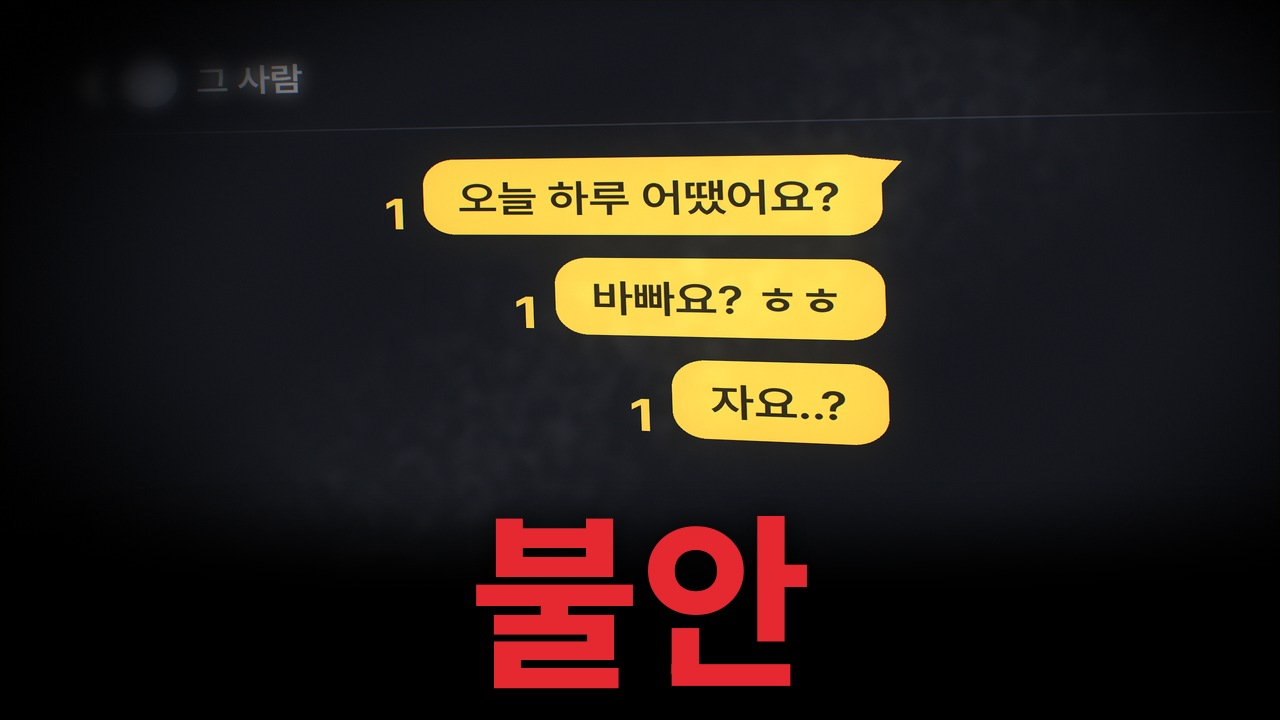
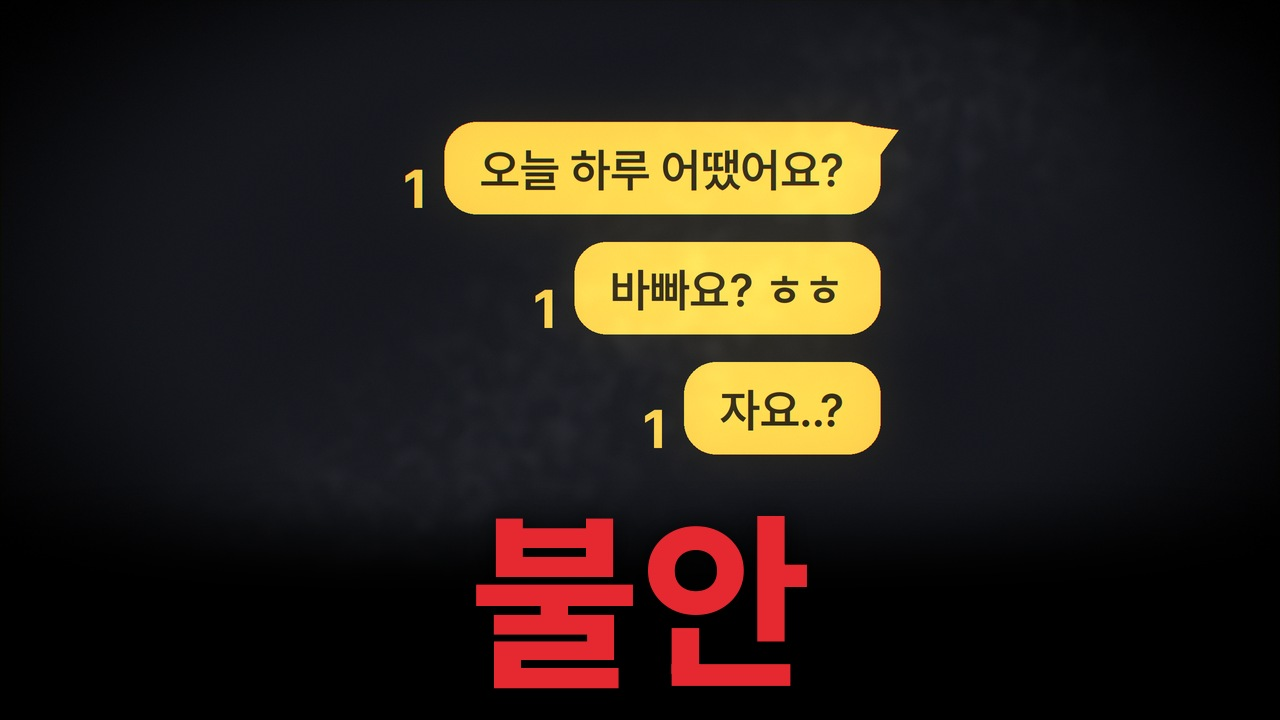
F의연애: 썸네일 채팅을 기울이지 않고 똑바로 세움
- thumb_chat.py: 원근 기울기 제거, 채팅 묶음을 위·가운데로 옮겨 제목과 간격 확보, 잘리던 상대 이름 줄 제거
- 01편 썸네일(빨간 글씨, 비교용 흰 글씨) 다시 만듦
- CLAUDE.md 작업 규칙 7번에 '글씨가 든 그림은 기울이지 않기' 추가, README·진행기록 갱신

Claude-Session: https://claude.ai/code/session_01W2LvTK1LxBBrCR9gG9ohCC

diff --git a/F의연애/썸네일/thumb_chat.py b/F의연애/썸네일/thumb_chat.py
@@ -1,9 +1,10 @@
 # 「F의 연애」 썸네일: 채팅 확대판 (2026-10-22 사용자 지시)
 # 휴대폰 몸체 없이 대화 내용만 크게 확대해, 썸네일을 작게 봐도 노란 말풍선과 읽지 않은 '1'이 눈에 들어오게 한다.
-# 실제 화면을 가까이서 찍은 사진처럼 보이게: 살짝 기운 원근, 가장자리 초점 흐림, 말풍선 빛 번짐, 은은한 화면 반사.
+# 실제 화면을 가까이서 찍은 사진처럼 보이게: 가장자리 초점 흐림, 말풍선 빛 번짐, 은은한 화면 반사.
+# 화면은 기울이지 않고 똑바로 세운다(2026-10-22 사용자 지시: 삐뚤어 보인다).
 # 배경은 검은색으로 사라지고, 아래에 주제 단어(thumb.py와 같은 글꼴·위치).
 #
-# usage: thumb_chat.py OUT.jpg --word 불안 --color red [--msgs "a|b|c"] [--name "그 사람"]
+# usage: thumb_chat.py OUT.jpg --word 불안 --color red [--msgs "a|b|c"]
 import os, sys
 import numpy as np
 from PIL import Image, ImageDraw, ImageFilter
@@ -15,19 +16,21 @@ S = 2                       # draw at 2x, then downsample
 SCREEN = (22, 24, 30)       # dark-mode chat background
 
 
-def chat_panel(msgs, name):
-    """Flat dark-mode chat panel at 2x. Bubbles are big: about 88 px tall in the final 1280x720 thumbnail."""
+def chat_panel(msgs, name, header=False):
+    """Flat dark-mode chat panel at 2x. Bubbles are big: about 90 px tall in the final 1280x720 thumbnail.
+    header=False (default): no contact-name bar, so no text gets cut at the top edge (channel rule 5)."""
     pw, ph = 1180 * S, 700 * S
     img = Image.new("RGB", (pw, ph), SCREEN)
     d = ImageDraw.Draw(img)
-    hy = 62 * S                                                     # header (ends up soft and partly cropped)
-    d.line([(70 * S, hy - 22 * S), (52 * S, hy), (70 * S, hy + 22 * S)], fill=(225, 225, 230), width=6 * S, joint="curve")
-    d.ellipse([96 * S, hy - 32 * S, 160 * S, hy + 32 * S], fill=(92, 98, 112))
-    d.text((182 * S, hy), name, font=font("SemiBold", 42 * S), fill=(235, 235, 240), anchor="lm")
-    d.line([(0, 128 * S), (pw, 128 * S)], fill=(44, 47, 56), width=2 * S)
+    if header:
+        hy = 62 * S
+        d.line([(70 * S, hy - 22 * S), (52 * S, hy), (70 * S, hy + 22 * S)], fill=(225, 225, 230), width=6 * S, joint="curve")
+        d.ellipse([96 * S, hy - 32 * S, 160 * S, hy + 32 * S], fill=(92, 98, 112))
+        d.text((182 * S, hy), name, font=font("SemiBold", 42 * S), fill=(235, 235, 240), anchor="lm")
+        d.line([(0, 128 * S), (pw, 128 * S)], fill=(44, 47, 56), width=2 * S)
     fb, f1 = font("SemiBold", 46 * S), font("Bold", 54 * S)
     y = 168 * S
-    right = pw - 320 * S
+    right = pw - 350 * S
     for i, m in enumerate(msgs):
         tw = fb.getlength(m)
         bw, bh = tw + 72 * S, 92 * S
@@ -50,17 +53,15 @@ def perspective_coeffs(dst, src):
 
 
 def photo_look(panel):
-    """Place the panel with a mild 3D tilt (left side farther away), then add depth of field, glow and glare."""
+    """Place the panel straight (no tilt), then add a shallow depth of field, glow and glare."""
     CW, CH = W * S, H * S
     pw, ph = panel.size
-    # target quad (2x canvas): right edge nearer/taller than the left edge, slight downward tilt
-    dst = [(40 * S, 40 * S), (1270 * S, -10 * S), (1290 * S, 650 * S), (60 * S, 560 * S)]
-    src = [(0, 0), (pw, 0), (pw, ph), (0, ph)]
-    img = panel.transform((CW, CH), Image.PERSPECTIVE, perspective_coeffs(dst, src), Image.BICUBIC, fillcolor=SCREEN)
+    img = Image.new("RGB", (CW, CH), SCREEN)
+    img.paste(panel, ((CW - pw) // 2, -46 * S))           # header partly above the frame
     a = np.asarray(img, np.float32)
-    # depth of field: sharp around the bubbles, softer toward the far (left) side and the top header
+    # depth of field: sharp around the bubbles, softer toward the edges and the top header
     yy, xx = np.mgrid[0:CH, 0:CW].astype(np.float32)
-    cx, cy = 760 * S, 300 * S
+    cx, cy = 640 * S, 270 * S
     dist = np.sqrt(((xx - cx) / (560 * S)) ** 2 + ((yy - cy) / (300 * S)) ** 2)
     wgt = np.clip((dist - 0.75) / 0.6, 0, 1)
     soft = np.asarray(img.filter(ImageFilter.GaussianBlur(9 * S)), np.float32)
@@ -76,7 +77,7 @@ def photo_look(panel):
     sm = np.asarray(sm.filter(ImageFilter.GaussianBlur(6 * S)), np.float32) / 255
     a += (band * (6 + 16 * np.clip((sm - 0.45) * 3, 0, 1)))[..., None]
     # light falls off toward the frame edges (dark room): fade to pure black
-    r = np.sqrt(((xx - 0.55 * CW) / (0.62 * CW)) ** 2 + ((yy - 0.40 * CH) / (0.62 * CH)) ** 2)
+    r = np.sqrt(((xx - 0.50 * CW) / (0.62 * CW)) ** 2 + ((yy - 0.40 * CH) / (0.62 * CH)) ** 2)
     v = np.clip(1 - (r - 0.55) / 0.5, 0, 1)
     a *= (v * v * (3 - 2 * v))[..., None]
     a += np.random.default_rng(3).normal(0, 1.6, a.shape)          # faint sensor noise

diff --git a/F의연애/CLAUDE.md b/F의연애/CLAUDE.md
@@ -142,7 +142,7 @@
 4. 연구자·연도·실험 내용은 원문(초록 등)으로 확인한 것만 쓰고, 확인하지 못한 것은 '확인 필요'로 표시한다(3장 연구 인용 원칙과 같음).
 5. (2026-10-22 사용자 지시) 화면에 띄우는 글씨는 무조건 잘 보여야 한다. 작은 장식 글씨, 화면 끝에서 잘린 글씨, 가려진 글씨를 두지 않는다.
 6. (2026-10-22 사용자 지시) 화면 문구는 한눈에 이해되는 사람 말투로 쓴다. 설명조나 AI 말투(예: '애착 체계 = 위협을 느끼면 켜지는 경보', '경과', '무소식', '공개 예정')는 쉬운 말로 바꾼다(예: "심리학에선 '애착'이라고 불러요", '기다린 지 30분', '답장 없음', '끝에서 공개').
-7. (2026-10-22 사용자 지시) 화면 흔들림 효과, 선 일렁임, 필름 입자, 깜빡임 같은 인위적 효과를 넣지 않는다. 글씨는 닳은 효과 없이 또렷하게 쓰고, 한 화면에는 핵심 하나만 둔다. VOX 샘플 v2 피드백에서 나온 규칙이다. 스톡 영상 자체의 촬영 움직임과 사진·AI 이미지의 느린 확대는 괜찮은 것으로 본다(추론: 이 둘이 들어간 스톡 혼합 예시를 보고 방식을 확정했다).
+7. (2026-10-22 사용자 지시) 화면 흔들림 효과, 선 일렁임, 필름 입자, 깜빡임 같은 인위적 효과를 넣지 않는다. 글씨는 닳은 효과 없이 또렷하게 쓰고, 한 화면에는 핵심 하나만 둔다. 글씨가 든 그림(채팅 화면 등)은 기울이지 않고 똑바로 둔다(썸네일 포함). VOX 샘플 v2 피드백에서 나온 규칙이다. 스톡 영상 자체의 촬영 움직임과 사진·AI 이미지의 느린 확대는 괜찮은 것으로 본다(추론: 이 둘이 들어간 스톡 혼합 예시를 보고 방식을 확정했다).
 8. (2026-10-22 사용자 지시) 앞으로 영상은 스톡 혼합 방식으로 만든다. 사용자가 대본과 녹음 파일을 주면, 그 녹음에 맞춰 영상과 효과음을 넣어 완성한다.
 9. (2026-10-22 사용자 지시) 중요한 대사는 핵심 단어를 노란색(#F2C94C)으로 강조하되 남발하지 않는다. 기준(Claude 제안): 자막 하나에 한 단어, 이어지는 두 자막에 연달아 쓰지 않기, 30초 예시(자막 20개 중 7개)보다 촘촘하게 쓰지 않기. 숫자 변화, 개념 이름, 결론 단어를 우선한다.
 

diff --git a/F의연애/썸네일/README.md b/F의연애/썸네일/README.md
@@ -15,7 +15,9 @@
 1. 크기: 1280×720, JPG. 「INFJ입니다.」 지침 7-1과 같은 크기입니다.
 2. 배경: 순검정
 3. 물체: 가운데 위쪽에 둡니다. 작게 봐도 알아보도록 핵심만 크게 씁니다(01편은 말풍선 높이 약 90px). 아래쪽은 y=470~600에서 검게 사라져 글자 뒤를 비웁니다.
-   - 사진처럼 보이게 하는 처리(thumb_chat.py): 살짝 기운 원근(왼쪽이 멀어짐), 가장자리 초점 흐림, 말풍선 빛 번짐, 유리 반사와 지문 얼룩, 아주 약한 렌즈 색 번짐과 노이즈, 가장자리를 검게 감싸는 조명
+   - 사진처럼 보이게 하는 처리(thumb_chat.py): 가장자리 초점 흐림, 말풍선 빛 번짐, 유리 반사와 지문 얼룩, 아주 약한 렌즈 색 번짐과 노이즈, 가장자리를 검게 감싸는 조명
+   - 물체는 기울이지 않고 똑바로 세운다(2026-10-22 사용자 지시: 원근을 넣었더니 삐뚤어 보인다고 함)
+   - 화면 끝에서 잘리는 글씨를 두지 않는다. 그래서 채팅 위쪽의 상대 이름 줄은 뺐다(채널 작업 규칙 5번)
 4. 주제 단어
    - 글꼴: Noto Sans KR(본고딕 계열, OFL) 굵기 800(ExtraBold), 186px, 가운데 정렬, 글자 바닥선 y=672
    - 글자 아래에 은은한 검은 그림자(아래로 6px, 흐림 14px)를 깔아 물체와 떼어 줍니다.

diff --git a/F의연애/진행기록.md b/F의연애/진행기록.md
@@ -4,6 +4,14 @@
 
 ---
 
+## 2026-10-22 (9) 썸네일 채팅을 똑바로
+
+1. 사용자 피드백: 카톡 그림이 왜 삐뚤지? 똑바로 세워 달라.
+2. 원인: 사진 느낌을 내려고 넣은 원근 기울기
+3. 바꾼 것: 기울기를 빼고 똑바로 세웠다. 말풍선이 커져서 묶음을 위로, 가운데로 옮겨 제목과 간격(약 60px)을 띄웠다. 화면 위 끝에서 잘리던 상대 이름 줄은 뺐다. CLAUDE.md 작업 규칙 7번에 '글씨가 든 그림은 기울이지 않는다'를 더했다.
+
+---
+
 ## 2026-10-22 (8) 썸네일: 채팅 내용만 확대, 사진처럼
 
 1. 사용자 지시
